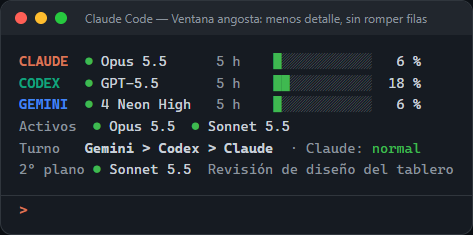
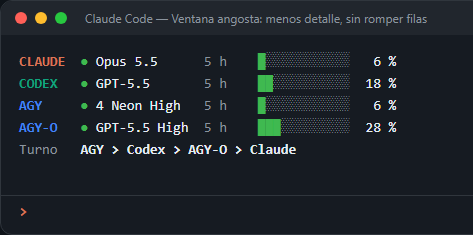
Docs: AGY and AGY-O screenshots; Turn row says AGY
- Regenerate the ten README screenshots (en/es) from the real bandRows
  output with docs/capturas/generar.mts (headless Chrome), so they show
  the AGY and AGY-O rows and the AGY-O low-quota warning.
- The Turn row, the Active row and the team-status block call the
  Antigravity Gemini member "AGY" instead of "Gemini".

diff --git a/tests/turno.test.ts b/tests/turno.test.ts
@@ -18,7 +18,7 @@ test('Claude al 80 % pasa a reserva y sale del reparto', () => {
 
 test('el cupo que vence pronto va primero', () => {
   const t = turno(base(20, 30, 40, 15))
-  expect(t.orden[0]).toBe('Gemini')
+  expect(t.orden[0]).toBe('AGY')
   expect(contextoTurno({ ...base(20, 30, 40, 15), lang: 'es' })).toContain('cupo por vencer')
 })
 
@@ -26,19 +26,19 @@ test('el bloque de turno sale en inglés por defecto y en español con lang es',
   const en = contextoTurno(base(20, 30, 40, 15))
   expect(en.split('\n')[0]).toBe('Team status (trio-ia-band mod; automatic data, not a user message):')
   expect(en).toContain('AGY (Gemini: reading, media, web): 5 h 40 % used · resets in 15 min · score 105 (quota about to reset: use it first)')
-  expect(en).toContain('Priority for new work now: Gemini > Codex > Claude > AGY-O.')
+  expect(en).toContain('Priority for new work now: AGY > Codex > Claude > AGY-O.')
   expect(en).toContain('Claude < 50 %: normal split')
   expect(en).not.toMatch(/Estado del equipo|Prioridad|puntaje|usado/)
   const es = contextoTurno({ ...base(20, 30, 40, 15), lang: 'es' })
   expect(es.split('\n')[0]).toContain('Estado del equipo')
   expect(es).toContain('Claude: 5 h 20 % usado · se renueva en 2 h 0 min')
-  expect(es).toContain('Prioridad para dar trabajo ahora: Gemini > Codex > Claude > AGY-O.')
+  expect(es).toContain('Prioridad para dar trabajo ahora: AGY > Codex > Claude > AGY-O.')
   expect(contextoTurno({ ...base(99, 99, 99), geminiLimited: true, sociosLimits: { five: { used: 99, at: now } } })).toContain('nobody has quota: tell the user')
 })
 
 test('un corte de Gemini lo saca del reparto', () => {
   const t = turno({ ...base(20, 30, 10), geminiLimited: true })
-  expect(t.orden).not.toContain('Gemini')
+  expect(t.orden).not.toContain('AGY')
 })
 
 test('puntúa a AGY-O y avisa al alcanzar el 90 % en cualquiera de sus ventanas', () => {

diff --git a/hooks/turno.ts b/hooks/turno.ts
@@ -9,7 +9,7 @@ import type { Key } from './i18n'
  * - El cupo libre que se renueva pronto se pierde si no se usa: suma prioridad.
  * - Una semana casi gastada o un corte (429) bajan o anulan la prioridad.
  */
-export type Miembro = 'Claude' | 'Codex' | 'Gemini' | 'AGY-O'
+export type Miembro = 'Claude' | 'Codex' | 'AGY' | 'AGY-O'
 /** Nota de cada puesto; el texto visible sale de i18n.ts. */
 export type Nota = 'sinCupo' | 'vence' | 'semana'
 export type Puesto = {
@@ -51,7 +51,7 @@ export function turno(data: BandData): Turno {
   const puestos = [
     puesto('Claude', claude5, claude7, data.now),
     puesto('Codex', codex5, codex7, data.now),
-    puesto('Gemini', g.five, g.week, data.now, !!data.geminiLimited),
+    puesto('AGY', g.five, g.week, data.now, !!data.geminiLimited),
     puesto('AGY-O', s.five, s.week, data.now),
   ]
   const orden = [...puestos].sort((a, b) => b.puntaje - a.puntaje).filter(p => p.puntaje > 0).map(p => p.nombre)
@@ -70,7 +70,7 @@ const ZONA: Record<Turno['zonaClaude'], Key> = {
 const NOTA: Record<Nota, Key> = { sinCupo: 'note.sinCupo', vence: 'note.vence', semana: 'note.semana' }
 
 function fila(p: Puesto, lang: BandData['lang']): string {
-  const label = p.nombre === 'Gemini' ? t(lang, 'ctx.agy') : p.nombre === 'AGY-O' ? t(lang, 'ctx.agyO') : p.nombre
+  const label = p.nombre === 'AGY' ? t(lang, 'ctx.agy') : p.nombre === 'AGY-O' ? t(lang, 'ctx.agyO') : p.nombre
   const partes = [`${label}: 5 h ${p.usado === undefined ? t(lang, 'ctx.unknown') : t(lang, 'ctx.used', { n: Math.round(p.usado) })}`]
   if (p.renuevaMin !== undefined) {
     const time = p.renuevaMin >= 60

diff --git a/hooks/band.ts b/hooks/band.ts
@@ -131,7 +131,7 @@ function activeRow(data: BandData, columns: number): Field {
   const groups = new Map<string, { count: number; working: number }>()
   for (const agent of data.agents ?? []) {
     const type = (agent.type ?? '').toLowerCase()
-    const name = type === 'gemini' ? 'Gemini' : type.startsWith('codex') ? 'Codex'
+    const name = type === 'gemini' ? 'AGY' : type.startsWith('codex') ? 'Codex'
       : agent.model ? safeModel(modelName(agent.model)) : t(data.lang, 'band.modelPending')
     const group = groups.get(name) ?? { count: 0, working: 0 }
     group.count++

diff --git a/README.es.md b/README.es.md
@@ -1,4 +1,4 @@
-<p align="center"><img src="docs/es/portada.png" alt="trio-ia-band: los límites de Claude, Codex y Gemini en una sola banda de Claude Code" width="100%"></p>
+<p align="center"><img src="docs/es/portada.png" alt="trio-ia-band: los límites de Claude, Codex, AGY y AGY-O en una sola banda de Claude Code" width="100%"></p>
 
 <p align="center">
   <a href="LICENSE"><img alt="Licencia MIT" src="https://img.shields.io/badge/licencia-MIT-3FB950"></a>
@@ -38,11 +38,11 @@ Si usas Claude Code para dirigir y le pasas trabajo a Codex y a Gemini, Claude e
 
 **Claude en zona de reserva.** Claude pasó del 75 %: sale del reparto y el turno manda el trabajo a Gemini, que además renueva su ventana en 12 minutos.
 
-![Claude en zona de reserva y Gemini con cupo por vencer](docs/es/reserva.png)
+![Claude en zona de reserva y AGY con cupo por vencer](docs/es/reserva.png)
 
 **Gemini cortado por límite y Codex casi lleno.** Gemini sale del reparto y Codex baja de prioridad porque su semana pasa del 85 %.
 
-![Gemini con límite alcanzado y Codex casi lleno](docs/es/corte-gemini.png)
+![AGY-O casi sin cupo y Codex casi lleno](docs/es/corte-gemini.png)
 
 **Ventana angosta.** Al estrechar la terminal se quita detalle (semana, reinicios, memoria) sin romper las filas.
 

diff --git a/README.md b/README.md
@@ -1,4 +1,4 @@
-<p align="center"><img src="docs/cover.png" alt="trio-ia-band: Claude, Codex and Gemini limits in one Claude Code band" width="100%"></p>
+<p align="center"><img src="docs/cover.png" alt="trio-ia-band: Claude, Codex, AGY and AGY-O limits in one Claude Code band" width="100%"></p>
 
 <p align="center">
   <a href="LICENSE"><img alt="MIT license" src="https://img.shields.io/badge/license-MIT-3FB950"></a>
@@ -39,11 +39,11 @@ If you use Claude Code to orchestrate and hand work to Codex and Gemini, Claude 
 
 **Claude in its reserve zone.** Claude is past 75 %, so it leaves the split and the turn sends work to Gemini, whose window also resets in 12 minutes.
 
-![Claude in reserve and Gemini with quota about to reset](docs/reserve.png)
+![Claude in reserve and AGY with quota about to reset](docs/reserve.png)
 
 **Gemini rate-limited and Codex almost full.** Gemini leaves the split, and Codex drops in priority because its week is past 85 %.
 
-![Gemini at its limit and Codex almost full](docs/limit.png)
+![AGY-O almost out of quota and Codex almost full](docs/limit.png)
 
 **Narrow window.** In a narrow terminal the band drops detail (week, resets, memory) without breaking rows.
 

diff --git a/docs/capturas/README.md b/docs/capturas/README.md
@@ -1,0 +1,4 @@
+Requiere Node.js 24.4+ y Chrome o Edge en Program Files. Para otra instalación, define `BROWSER_EXE`.
+Desde la raíz, ejecuta `node docs/capturas/generar.mts`.
+El script usa los datos de ejemplo y el renderizador del mod para crear HTML temporal y regenerar los diez PNG.
+Si el entorno ya está aislado y Chrome headless no arranca, define `CAPTURAS_NO_SANDBOX=1` para renderizar ese HTML local.
